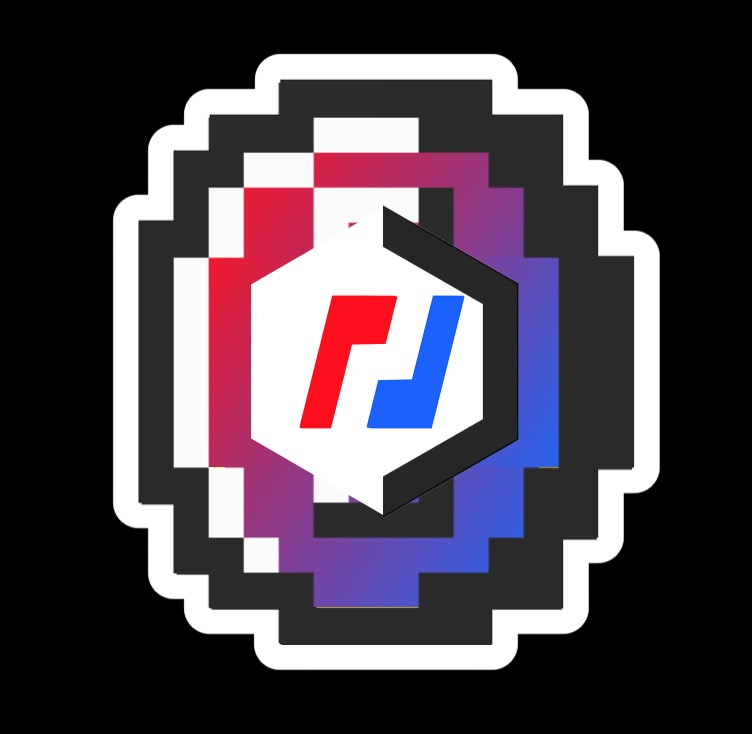
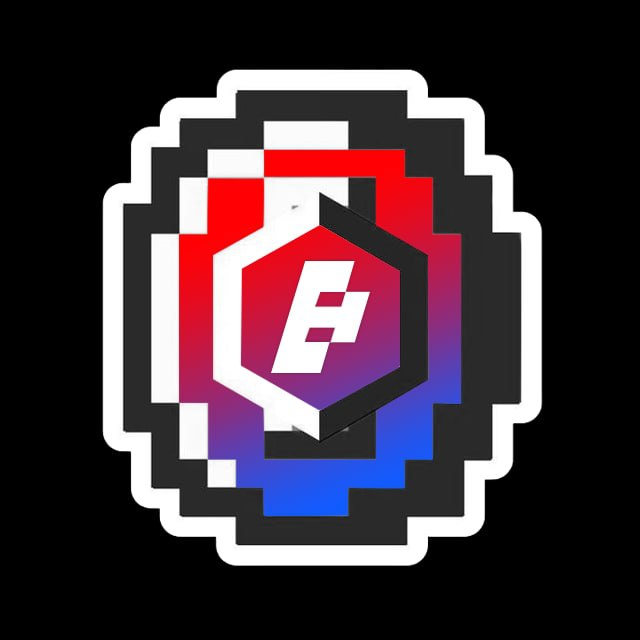
add: bmex token

diff --git a/index.html b/index.html
@@ -75,6 +75,11 @@
                         <button v-on:click="connectPRIMATE">
                             <img src="images/primate.png" alt="PRIMATE" />
                         </button>
+                    </div> 
+                    <div class="col-md-3 ico">
+                        <button v-on:click="connectBMEX">
+                            <img src="images/bmex.jpg" alt="BMEX" />
+                        </button>
                     </div>
                 </div>
                 <!-- <div class="row mt-4 justify-content-center">
@@ -138,6 +143,12 @@
                     </div>
                     <div class="item">
                         <div class="token-name">PRIMATE</div>
+                        <div class="token-desc">
+                            0x46e98FFE40E408bA6412bEb670507e083C8B95ff
+                        </div>
+                    </div> 
+                    <div class="item">
+                        <div class="token-name">BMEX</div>
                         <div class="token-desc">
                             0x46e98FFE40E408bA6412bEb670507e083C8B95ff
                         </div>
@@ -227,11 +238,26 @@
                     params: {
                         type: "ERC20", // Initially only supports ERC20, but eventually more!
                         options: {
+                            address: "0xB113c6CF239F60D380359b762E95C13817275277", // The address that the token is at.
+                            symbol: "BMEX", // A ticker symbol or shorthand, up to 5 chars.
+                            decimals: 8, // The number of decimals in the token
+                            image:
+                                "https://raw.githubusercontent.com/Team-Exchange/icons/master/TE_SMALL.png", // A string url of the token logo
+                        },
+                    },
+                });
+            },
+            connectBMEX: async function (event) {
+                const wasAdded = await ethereum.request({
+                    method: "wallet_watchAsset",
+                    params: {
+                        type: "ERC20", // Initially only supports ERC20, but eventually more!
+                        options: {
                             address: "0x9BADA086BAE4962037f14B0e79BaEa62e972dD21", // The address that the token is at.
                             symbol: "TEAM", // A ticker symbol or shorthand, up to 5 chars.
                             decimals: 8, // The number of decimals in the token
                             image:
-                                "https://raw.githubusercontent.com/Team-Exchange/icons/master/TE_SMALL.png", // A string url of the token logo
+                                "https://s2.coinmarketcap.com/static/img/exchanges/64x64/157.png", // A string url of the token logoimage:
                         },
                     },
                 });
